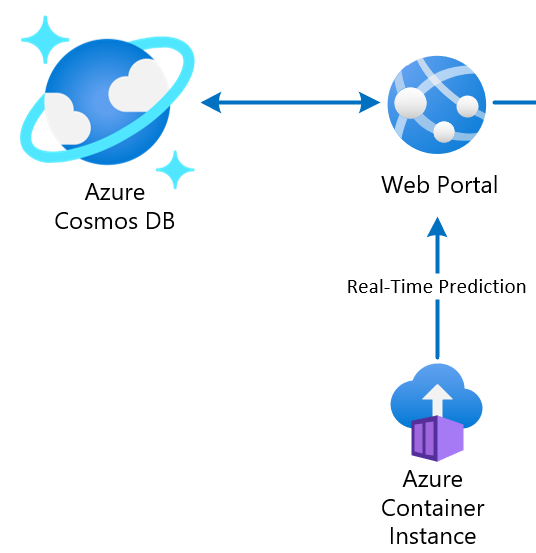
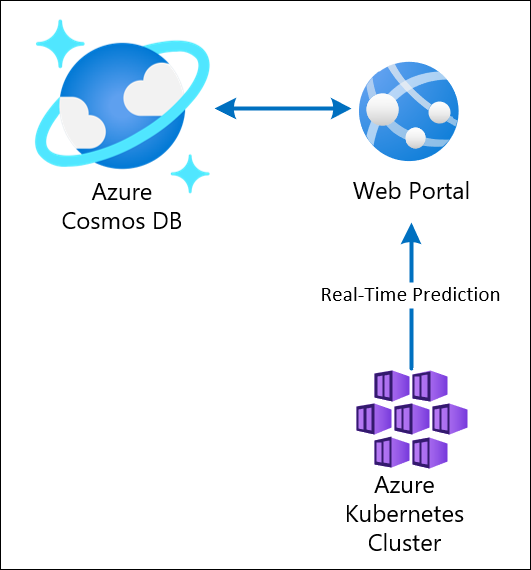
Address more recent ARM RP breaking changes. Update media. Document ML deployment.

Changed region(s): [[0.0, 0.0, 1.0, 1.0], [0.0, 0.0, 0.0301, 0.0307]]

diff --git a/IoT/docs/11.ml-model.md b/IoT/docs/11.ml-model.md
@@ -1,17 +1,24 @@
 # Cosmos DB scenario-based labs - IoT
 
-## 11. Create an Azure ML Model to Predict whether Maintenance will be needed in the next 30 days
+## 11. Create an Azure Machine Learning (ML) Model to Predict whether Maintenance will be needed in the next 30 days
 
 **Duration**: 45 minutes
 
 <!-- TOC -->
-- [Task 1: Do this](#task-1-do-this)
+- [Task 1: Do this](#task-1-azure-ml-designer)
 - [Task 2: Then do that](#task-2-then0-do-that)
 - [Task 3: And then do the other](#task-3-and-then-do-the-other)
 <!-- /TOC -->
 
 In this exercise, you will create an Azure Machine Learning (ML) model using the visual Azure ML Designer, then deploy batch and real-time inferencing pipelines. Then you will expose the real-time inferencing pipeline via a REST API endpoint.
 
-### Task 1: Do this
+### Task 1: Azure ML Designer
 
-COMING SOON
+In your Resource Group, select the Azure Machine Learning resource.
+
+![Select the Machine Learning resource.](../media/aml-rg.png 'Select the Machine Learning resource.')
+
+On the Overview blade, navigate to the ML Studio by selecting either the "Studio web URL" or the "Launch studio" button.
+
+![Navigate to the ML Studio.](../media/aml-overview.png 'Navigate to the ML Studio.')
+
